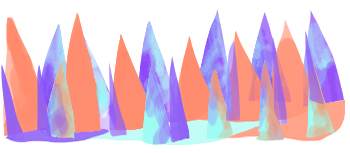
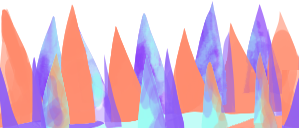
gui edits

diff --git a/Askew/core/src/askew/playermode/leveleditor/LevelEditorController.java b/Askew/core/src/askew/playermode/leveleditor/LevelEditorController.java
@@ -20,6 +20,7 @@ import askew.entity.ghost.GhostModel;
 import askew.entity.obstacle.Obstacle;
 import askew.entity.owl.OwlModel;
 import askew.entity.sloth.SlothModel;
+import askew.entity.thorn.ThornModel;
 import askew.entity.tree.PoleVault;
 import askew.entity.tree.StiffBranch;
 import askew.entity.tree.Trunk;
@@ -46,6 +47,7 @@ import lombok.Setter;
 import javax.swing.*;
 import java.awt.*;
 import java.io.FileNotFoundException;
+import java.util.ArrayList;
 import java.util.Collections;
 import java.util.Map;
 
@@ -128,7 +130,7 @@ public class LevelEditorController extends WorldController {
 	private boolean snapping = false;
 
 	private ButtonList buttons;
-
+	private boolean didLoad;
 
 
 	private boolean prompting;
@@ -256,6 +258,7 @@ public class LevelEditorController extends WorldController {
 
 		pressedL = false;
 		prevPressedL = false;
+		if (didLoad) makeGuiWindow();
 	}
 
 	/**
@@ -344,7 +347,10 @@ public class LevelEditorController extends WorldController {
 				entity = new OwlModel(x,y);
 				break;
 			case "WallModel":
-				entity = new WallModel(x,y,new float[] {0,0,0f,1f,1f,1f,1f,0f}, false);
+				entity = new WallModel(x,y,new float[] {0,0,0f,1f,1f,1f,1f,0f});
+				break;
+			case "ThornModel":
+				entity = new ThornModel(x,y,1,1,0);
 				break;
 			case "GhostModel":
 				entity = new GhostModel(x,y,x+2,y+2);
@@ -887,6 +893,7 @@ public class LevelEditorController extends WorldController {
 
 	//region JSON Stuff
 	private void makeGuiWindow() {
+		didLoad = true;
 		if (editorWindow != null) {
 			editorWindow.dispose();
 		}
@@ -952,6 +959,7 @@ public class LevelEditorController extends WorldController {
 			JsonElement value = entry.getValue();
 			StringBuilder theArray = new StringBuilder();
 			if (value.isJsonArray()) {
+				if (key.equals("entities")) continue;
 				boolean newLineTime = false;
 				for (JsonElement x : value.getAsJsonArray()) {
 					theArray.append(x.getAsString());
@@ -1012,13 +1020,16 @@ public class LevelEditorController extends WorldController {
 
 	private void saveLevel(){
 		System.out.println("Saving...");
-		LevelModel timeToSave = new LevelModel();
+		LevelModel timeToSave;
 //		if (!vimMode) {
 		// Grab params from gui
 		JsonObject levelJson = jsonLoaderSaver.gsonToJsonObject(levelModel);
 		grabUpdatedObjectValuesFromGUI(levelJson,editorWindow.getRootPane().getContentPane());
 		timeToSave = jsonLoaderSaver.levelFromJson(levelJson);
-		timeToSave.entities.clear();
+		if (timeToSave.entities != null)
+			timeToSave.entities.clear();
+		else
+			timeToSave.entities = new ArrayList<>();
 //		}
 		for (Entity o : objects) {
 			timeToSave.addEntity(o);

diff --git a/Askew/core/src/askew/entity/JsonEntityFactory.java b/Askew/core/src/askew/entity/JsonEntityFactory.java
@@ -4,6 +4,7 @@ import askew.MantisAssetManager;
 import askew.entity.ghost.GhostModel;
 import askew.entity.owl.OwlModel;
 import askew.entity.sloth.SlothModel;
+import askew.entity.thorn.ThornModel;
 import askew.entity.tree.*;
 import askew.entity.vine.Vine;
 import askew.entity.wall.WallModel;
@@ -88,7 +89,6 @@ public class JsonEntityFactory {
         WallModel wall;
         float x = instance.get("x").getAsFloat();
         float y = instance.get("y").getAsFloat();
-        boolean thorn = instance.get("thorn").getAsBoolean();
         List<Float> points = new ArrayList<>();
         System.out.println(instance.get("points"));
         instance.get("points").getAsJsonArray().forEach(pt->points.add(pt.getAsFloat()));
@@ -97,9 +97,22 @@ public class JsonEntityFactory {
         for (int i = 0; i < arrayPoints.length; i++) {
             copy[i] = arrayPoints[i];
         }
-        wall = new WallModel(x, y, copy, thorn);
+        wall = new WallModel(x, y, copy);
         wall.setTextures(manager);
         return wall;
+    }
+
+
+    public static ThornModel createThorn(MantisAssetManager manager, JsonObject instance) {
+        ThornModel thorn;
+        float x = instance.get("x").getAsFloat();
+        float y = instance.get("y").getAsFloat();
+        float width = instance.get("width").getAsFloat();
+        float height = instance.get("height").getAsFloat();
+        float angle = instance.get("angle").getAsFloat();
+        thorn = new ThornModel(x, y, width, height, angle);
+        thorn.setTextures(manager);
+        return thorn;
     }
 
     public static GhostModel createGhost(MantisAssetManager manager, JsonObject instance) {

diff --git a/Askew/core/src/askew/entity/wall/WallModel.java b/Askew/core/src/askew/entity/wall/WallModel.java
@@ -47,11 +47,7 @@ public class WallModel extends PolygonObstacle {
     @Override
     public void setTextures(MantisAssetManager manager) {
         TextureRegion wallTextureRegion;
-        if (thorn) {
-            wallTextureRegion = manager.getProcessedTextureMap().get(MantisAssetManager.THORN_TEXTURE);
-        } else {
-            wallTextureRegion = manager.getProcessedTextureMap().get(MantisAssetManager.WALL_TEXTURE);
-        }
+        wallTextureRegion = manager.getProcessedTextureMap().get(MantisAssetManager.WALL_TEXTURE);
         setTexture(wallTextureRegion);
     }
 

diff --git a/Askew/core/src/askew/util/json/JSONLoaderSaver.java b/Askew/core/src/askew/util/json/JSONLoaderSaver.java
@@ -3,15 +3,11 @@ package askew.util.json;
 
 import askew.MantisAssetManager;
 import askew.entity.Entity;
+import askew.entity.EntityWrapper;
 import askew.playermode.leveleditor.LevelModel;
 import com.badlogic.gdx.Gdx;
-import com.badlogic.gdx.assets.AssetManager;
 import com.badlogic.gdx.files.FileHandle;
-import com.badlogic.gdx.math.Vector2;
 import com.google.gson.*;
-import askew.entity.obstacle.Obstacle;
-import lombok.Cleanup;
-import lombok.Getter;
 
 import java.io.*;
 import java.util.Optional;

diff --git a/Askew/core/src/askew/MantisAssetManager.java b/Askew/core/src/askew/MantisAssetManager.java
@@ -19,7 +19,7 @@ import java.util.Map;
 public class MantisAssetManager extends AssetManager {
 
     public static final String WALL_TEXTURE = "texture/wall/wall.png";
-    public static final String THORN_TEXTURE = "texture/wall/thorn.png";
+    public static final String THORN_TEXTURE = "texture/thorn/thorns.png";
     private boolean loaded;
     private boolean preloaded;
 

diff --git a/Askew/core/src/askew/playermode/gamemode/TutorialModeController.java b/Askew/core/src/askew/playermode/gamemode/TutorialModeController.java
@@ -223,7 +223,7 @@ public class TutorialModeController extends GameModeController {
 
 		///Create wall
 		float[] points = {-4.0f,0.0f, -4.0f,1.0f, 16.0f,1.0f, 16.0f,0.0f};
-		WallModel platform = new WallModel(sloth_x-2,sloth_y-1.5f,points,false);
+		WallModel platform = new WallModel(sloth_x-2,sloth_y-1.5f,points);
 		platform.setTextures(manager);
 		addObject(platform);
 
